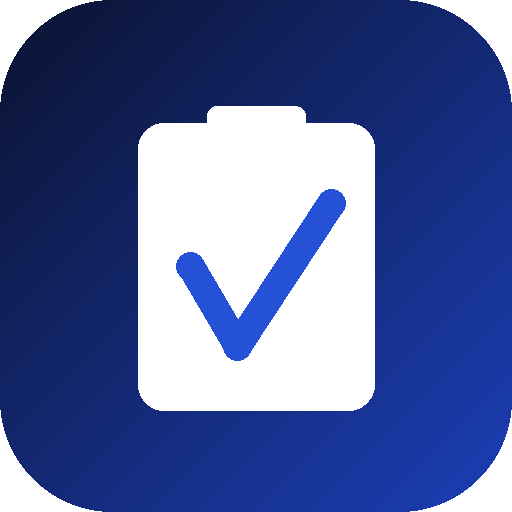
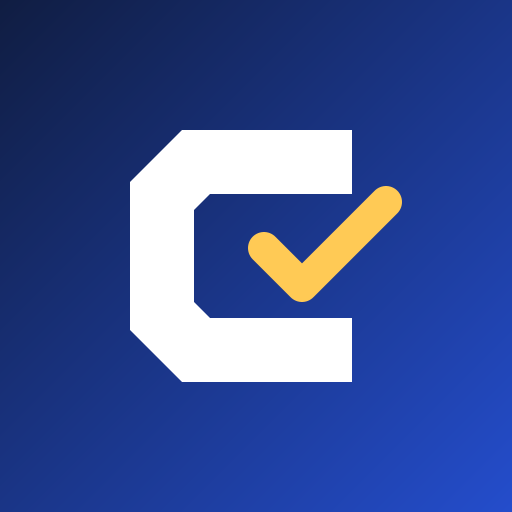
Atualizar identidade visual e ícones da Campolina

diff --git a/pagamentos.html b/pagamentos.html
@@ -1,7 +1,9 @@
 <!doctype html><html lang="pt-BR"><head><meta charset="utf-8"><meta name="viewport" content="width=device-width,initial-scale=1"><title>Campolina · Pagamentos por obra</title><style>
 *{box-sizing:border-box}body{margin:0;background:#f2f4f9;color:#172340;font:15px system-ui,sans-serif}main{max-width:1200px;margin:32px auto;padding:0 20px}header{background:linear-gradient(120deg,#0d1636,#203b9e);color:white;padding:30px;border-radius:20px}h1{margin:9px 0;font-size:30px}p{line-height:1.6}.tag{font-size:12px;letter-spacing:2px;color:#becfff}.notice{background:#fff5d9;border:1px solid #e5ce8b;padding:14px 18px;border-radius:12px;margin:20px 0}.panel{background:white;border:1px solid #dce2ef;border-radius:16px;padding:20px;margin-top:18px}.filters{display:flex;gap:16px;align-items:end;flex-wrap:wrap}label{display:grid;gap:7px;font-size:13px;font-weight:600}select,input,button{font:inherit;border:1px solid #d5ddeb;border-radius:8px;padding:10px;background:white;color:#172340}button{cursor:pointer;font-weight:650}button:hover{background:#edf2ff}button.primary{background:#2850dc;color:white;border-color:#2850dc}.stats{display:grid;grid-template-columns:repeat(4,1fr);gap:15px;margin:20px 0}.stat{background:white;border:1px solid #dce2ef;border-radius:14px;padding:20px}.stat span{font-size:12px;color:#61708b}.stat strong{display:block;font-size:26px;margin-top:8px}.stat:last-child{background:#e8f5ef;border-color:#b8dfcc}.scroll{overflow:auto}table{width:100%;border-collapse:collapse;white-space:nowrap}th{text-align:left;color:#61708b;font-size:12px;padding:14px 10px;border-bottom:1px solid #dce2ef}td{padding:15px 10px;border-bottom:1px solid #e8ecf4}td input{width:105px}small{display:block;color:#6b7891;margin-top:4px}.total{font-weight:750}.status{color:#a05a00;background:#fff3d4;padding:6px 9px;border-radius:20px;font-size:12px}.paid{background:#def4e8;color:#167143}.actions{display:flex;gap:10px;flex-wrap:wrap;align-items:center;margin-top:20px}.explain{color:#65738b;font-size:13px}.bottom{display:flex;justify-content:space-between;gap:20px;align-items:center}#feedback{min-height:24px;color:#167143;font-weight:600}@media(max-width:700px){.stats{grid-template-columns:1fr 1fr}h1{font-size:24px}.bottom{display:block}main{margin:16px auto}.stat strong{font-size:21px}}@media print{body{background:white}main{max-width:none;margin:0;padding:0}header{background:white;color:#172340;padding:0}.notice,.filters,.actions,.explain,.tag,#feedback,.pay-action{display:none}.panel{padding:8px;border:none}input{border:none;padding:0;width:75px!important}.stats{gap:8px}.stat{padding:10px}.scroll{overflow:visible}table{font-size:10px}td,th{padding:8px 3px}h1{font-size:23px}}
 
-[hidden]{display:none!important}a{color:inherit}.stats{grid-template-columns:repeat(4,1fr)}button:disabled{opacity:.5;cursor:default}.error{color:#a82121!important}.filters select{max-width:350px}#pay-app[aria-busy=true]{opacity:.65;pointer-events:none}@media(max-width:700px){.stats{grid-template-columns:1fr 1fr}}@media print{.no-print{display:none!important}}</style></head><body><main>
+[hidden]{display:none!important}a{color:inherit}.stats{grid-template-columns:repeat(4,1fr)}button:disabled{opacity:.5;cursor:default}.error{color:#a82121!important}.filters select{max-width:350px}#pay-app[aria-busy=true]{opacity:.65;pointer-events:none}@media(max-width:700px){.stats{grid-template-columns:1fr 1fr}}@media print{.no-print{display:none!important}}</style><link rel="icon" type="image/png" sizes="32x32" href="icon-32.png?v=campolina2">
+<link rel="apple-touch-icon" sizes="180x180" href="icon-180.png?v=campolina2">
+</head><body><main>
 <header><div class="tag">EQUIPE CAMPOLINA · FINANCEIRO</div><h1>Pagamentos por obra</h1><p>Fechamento de diárias e controle dos pagamentos da equipe.</p><a class="no-print" href="index.html">← Voltar ao painel</a></header>
 <p id="auth-msg" role="status">Verificando acesso…</p>
 <div id="pay-app" hidden>

diff --git a/apontador.html b/apontador.html
@@ -6,9 +6,9 @@
 <meta name="viewport" content="width=device-width,initial-scale=1,viewport-fit=cover"/>
 <title>Campolina • Apontador</title>
 <meta name="theme-color" content="#0b1330">
-<link rel="manifest" href="manifest.json">
-<link rel="apple-touch-icon" href="icon-192.png">
-<link rel="icon" href="icon-192.png">
+<link rel="manifest" href="manifest.json?v=campolina2">
+<link rel="apple-touch-icon" sizes="180x180" href="icon-180.png?v=campolina2">
+<link rel="icon" sizes="32x32" href="icon-32.png?v=campolina2">
 <link rel="stylesheet" href="https://fonts.googleapis.com/css2?family=IBM+Plex+Sans:wght@400;500;600;700&display=swap">
 <style>
 :root{

diff --git a/cartoes.html b/cartoes.html
@@ -312,6 +312,8 @@
 
   [hidden]{ display: none !important; }
 </style>
+<link rel="icon" type="image/png" sizes="32x32" href="icon-32.png?v=campolina2">
+<link rel="apple-touch-icon" sizes="180x180" href="icon-180.png?v=campolina2">
 </head>
 <body>
 

diff --git a/index.html b/index.html
@@ -673,6 +673,8 @@
     .hero{ flex-direction: column; }
   }
 </style>
+<link rel="icon" type="image/png" sizes="32x32" href="icon-32.png?v=campolina2">
+<link rel="apple-touch-icon" sizes="180x180" href="icon-180.png?v=campolina2">
 </head>
 <body>
 
